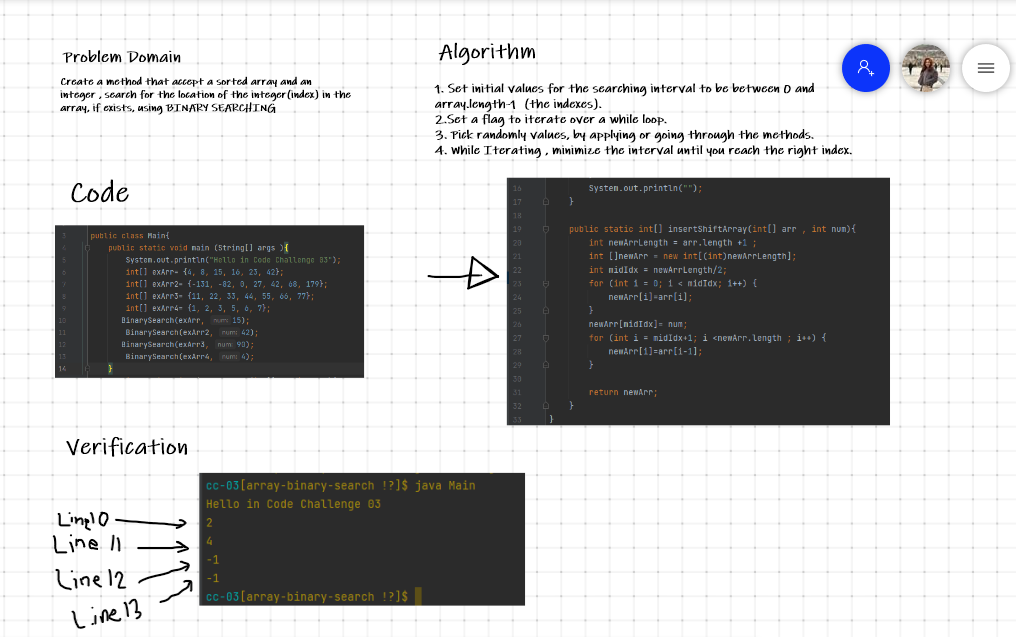
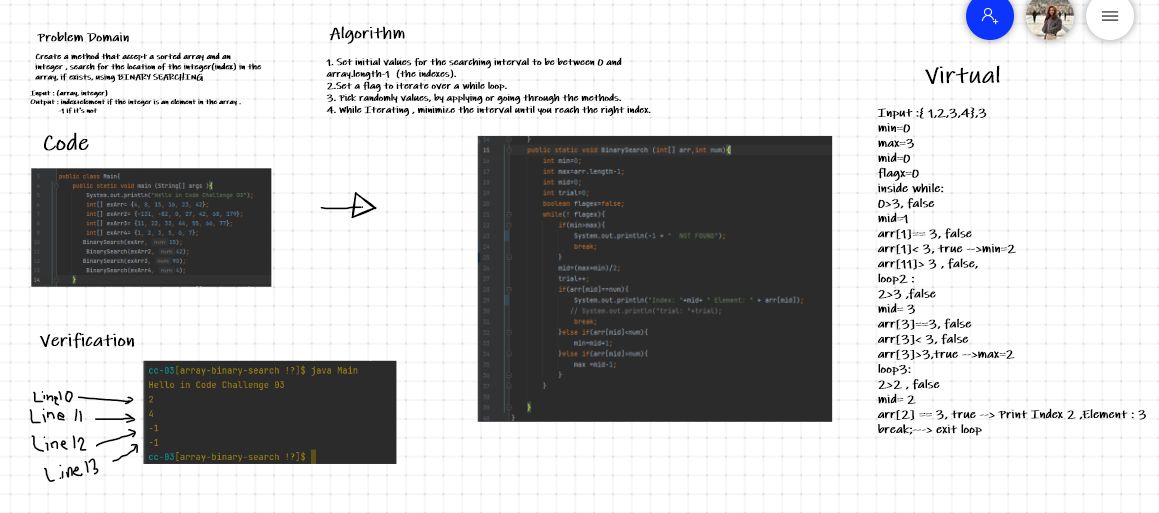
cc-03 resubmission

diff --git a/cc-03/Main.java b/cc-03/Main.java
@@ -20,13 +20,13 @@ public class Main{
         boolean flagex=false;
         while(! flagex){
             if(min>max){
-                System.out.println(-1);
+                System.out.println(-1 + "  NOT FOUND");
                 break;
             }
             mid=(max+min)/2;
             trial++;
             if(arr[mid]==num){
-                System.out.println(mid);
+                System.out.println("Index: "+mid+ " Element: " + arr[mid]);
                // System.out.println("trial: "+trial);
                 break;
             }else if(arr[mid]<num){
